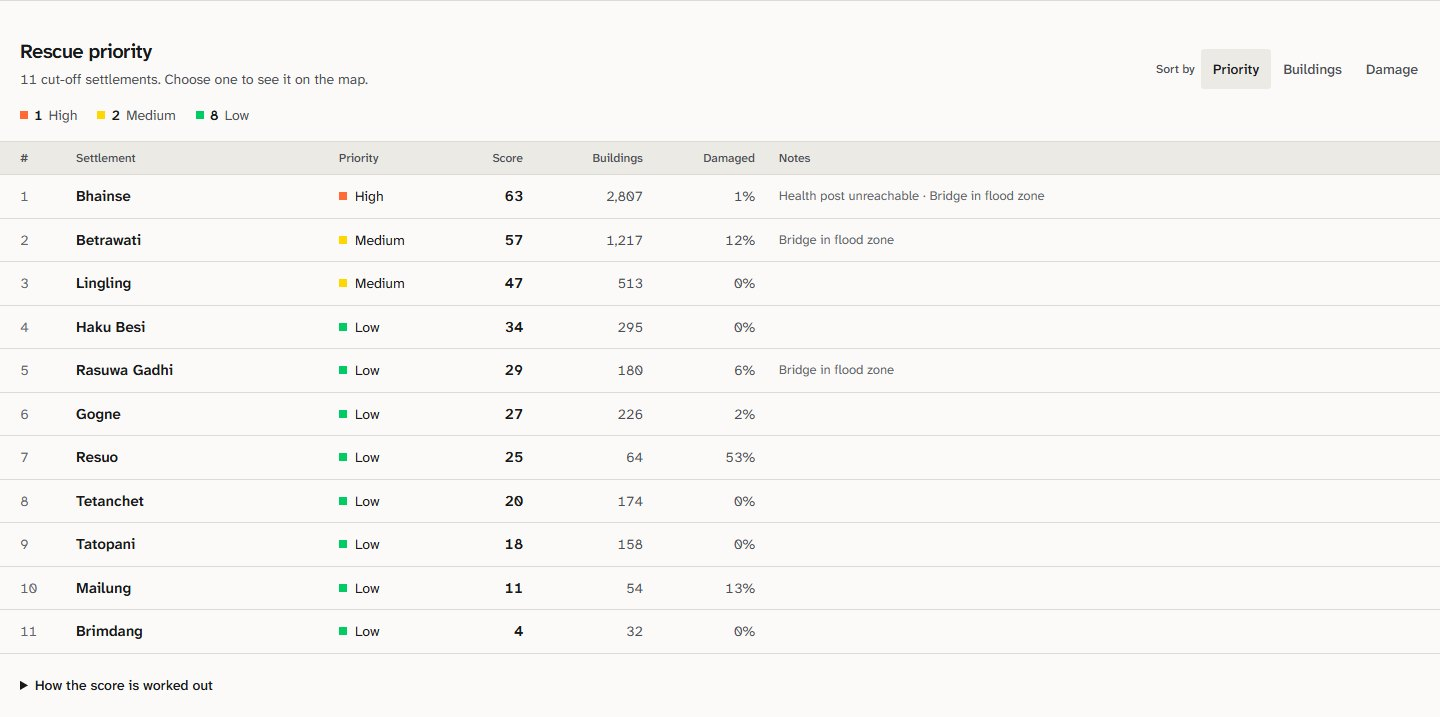
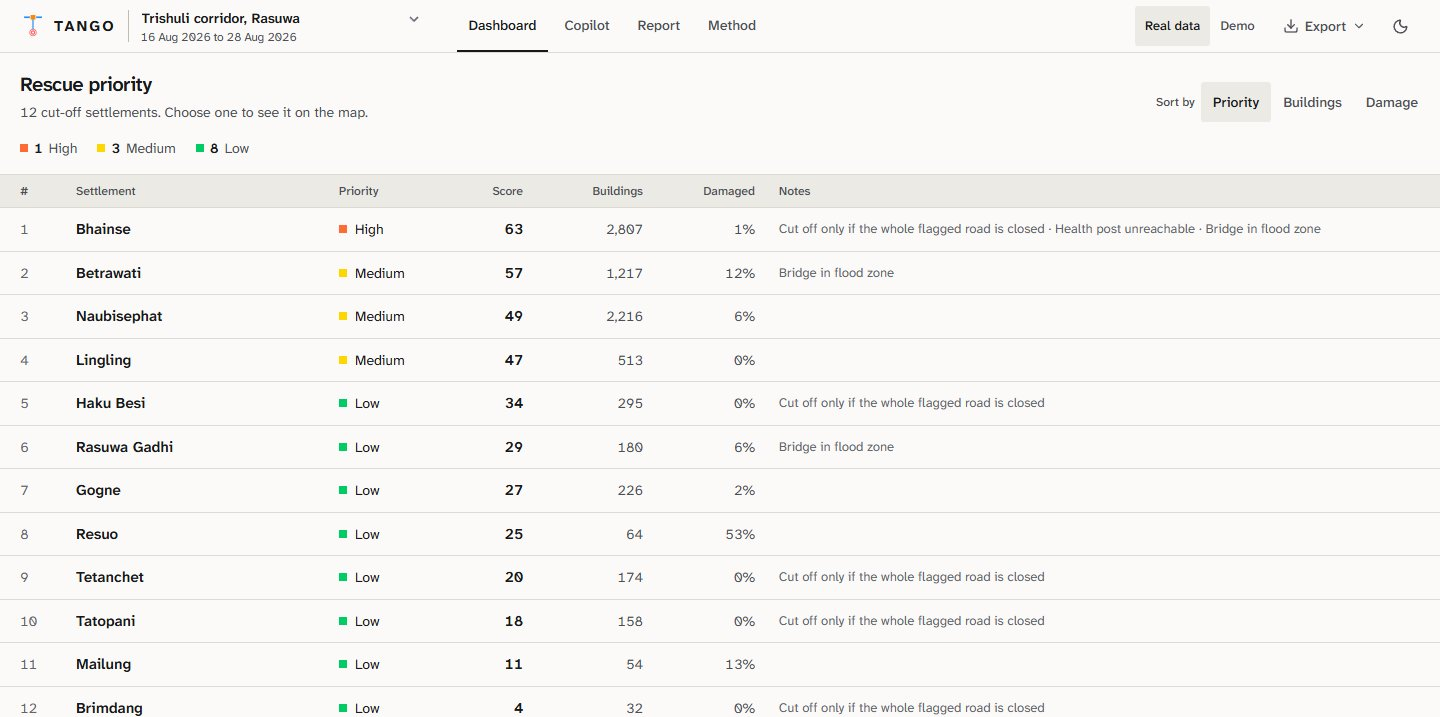
docs: demo video, Devpost and team in the README; current screenshots
The README screenshots predated the re-made runs (11 of 149 cut off,
5,720 buildings); they now show the live site's figures (12 of 149,
7,936). Adds the feature inventory written for the demo videos.

diff --git a/docs/feature-inventory.md b/docs/feature-inventory.md
@@ -1,0 +1,48 @@
+# TANGO feature inventory
+
+Read from `src/pages`, `src/components`, `src/hooks` and `src/services` (14 Oct 2026, build db87f95). The last column says where the feature appears in the full tour (`video/out/tango-full-tour.mp4`, 4:29) and in the 3-minute submission video (`video/out/tango-submission-3min.mp4`, 2:58). "Not shown" means the feature exists in the app but has no shot yet.
+
+## Pipeline (Python, `pipeline/`)
+
+| Feature | Where | In the videos |
+| --- | --- | --- |
+| End-to-end run from an area and a date (`run.py --bbox --event`), 8 numbered steps, preflight checks | `run.py`, `preflight.py` | Tour 0:21, 3-min 0:09 (real Teesta log) |
+| Same-track Sentinel-1 pair 12 days apart; frames of a pass joined; `--track` | `fetch_s1.py` | Both (the log's pair line; the track on the rail) |
+| Three-image baseline, valley-floor mask | `segment.py`, `terrain.py` | Both (narrated) |
+| Sentinel-2 confirmation and blind-spot fill | `fetch_s2.py` | Both (viewer, Optical) |
+| OpenStreetMap snapshot before the event, fetched in the background with retries | `fetch_osm.py` | Both (log, badge) |
+| Damage overlay, flooded length of roads | `damage.py` | Both |
+| Cut-off analysis (whole flagged roads, and flooded stretches only) | `cutoff.py`, `infrastructure.py` | Both |
+| U-Net model (Kuro Siwo), held-out evaluation, model check on the rule's map | `train_model.py`, `evaluate_model.py`, `predict.py` | Both |
+| Flood-path export, outlines, quicklooks | `floodpath.py`, `quicklook.py` | Viewer and flood path |
+| EMSR927 comparison (checking only), no-change test | `validate.py`, `null_test.py` | Both (lower-bound figures) |
+| Data rules as tests | `tests/test_compliance.py` | 3-min 0:17 (code card) |
+| Publish to the dashboard | `publish.py` | Not shown |
+
+## Dashboard (React, `src/`)
+
+| Feature | Component | In the videos |
+| --- | --- | --- |
+| Splash: Earth, satellite pass, what has loaded, Open the analysis, EN/नेपाली | `Splash/*` | Tour 0:42 (open clip); 3-min not shown |
+| Header: area selector (6 areas), Real data / Demo, Dashboard · Copilot · Report · Method, Export, theme | `Common/Header.jsx` | Tour 3:33 (area switch, Demo, Export, dark theme, Method) |
+| Key figures, breakdown bar, lower-bound note | `Dashboard/Situation.jsx`, `CoverageNotice.jsx` | Both |
+| "No flood found" and "not checked against a reference" notices | `NoFloodNotice.jsx`, `CoverageNotice.jsx` | Not-checked note: 3-min 0:17 (Teesta); no-flood state not shown |
+| Map: satellite / drawn basemap, zoom, full screen, legend, flood zones, markers, popups | `Map/FloodMap.jsx`, `DamageOverlay.jsx`, `MapMarkers.jsx` | Both |
+| Coordinates on click, copy | `Map/FloodMap.jsx` | Seen briefly (damage clip); copy not shown |
+| Basemap notice when tiles fail | `hooks/useTileHealth.js` | Not shown |
+| Layers panel | `Map/LayerControl.jsx` | Tour 2:16 |
+| Filters | `Tools/FilterControls.jsx` | Tour 2:16 |
+| Measure distance / area, undo, clear | `Tools/MeasurementTool.jsx` | Tour 2:16 (distance) |
+| Flood path (bonus) | `Tools/FloodPathTool.jsx`, `utils/floodPath.js` | Both |
+| Route planner: from / to, my location, choose on map, swap, avoid flooded vs fastest, margin, vehicle / on foot, directions, GPX, clear | `Map/RoutePanel.jsx`, `utils/routing.js` | Both (choose places, avoid vs fastest); my location, swap, on foot, directions, GPX not shown |
+| Live navigation HUD with voice guidance | `Map/NavigationHud.jsx`, `hooks/useVoiceGuidance.js`, `services/speech.js` | Not shown (needs a moving GPS position) |
+| Rescue priority table, sort by priority / buildings / damage, choose a row to fly to it | `Dashboard/SettlementPriorityRanking.jsx` | Both (choose Bhainse); sort options not shown |
+| Before/after viewer: flood area / whole area, mapped flood outlines, radar / optical, zoom, full screen, download | `Dashboard/SatelliteViewer.jsx` | Tour 1:06 (all but full screen and download) |
+| What was detected, model check, Sentinel-2 note, road-map completeness, infrastructure lists | `Dashboard/Evidence.jsx` | Both |
+| Copilot: four questions, full report, typed questions, EN / NE, copy, download, clear | `Copilot/*`, `services/copilotService.js` | Both (questions, Nepali); typed question, copy, download, clear not shown |
+| One-page situation report EN / NE, print or save as PDF | `pages/ReportPage.jsx` | Both (EN, NE); print dialog not shown |
+| Exports: settlements CSV, statistics CSV, map layers GeoJSON | `Tools/ExportPanel.jsx`, `services/exportService.js` | Tour 3:33 (menu) |
+| Method page | `pages/AboutPage.jsx` | Tour 3:33 |
+| Demo dataset | `config/dataSource.js`, `data/mockData.js` | Tour 3:33 |
+| Error boundary, error page, load errors with retry, toasts | `Common/ErrorBoundary.jsx`, `pages/ErrorPage.jsx`, `Common/Toast.jsx` | Not shown |
+| Keyboard access: skip link, focus management on page change, menus with arrows / Escape | `hooks/useRouteChange.js`, `Common/Header.jsx` | Not shown |

diff --git a/README.md b/README.md
@@ -7,7 +7,9 @@ An entry to Space Track, Track B (*Mapping Flood Damage from Space*) of the Mult
 | | |
 | --- | --- |
 | Live dashboard | <https://bhoopesh282008.github.io/Tango/> (six areas on real data: the case study, the flood model's map of the same scenes, a second reach and three rehearsals; the header's **Demo** switch shows the bundled demo dataset) |
-| Demo video | _added at submission_ |
+| Demo video (3 min) | <https://youtu.be/mF6I_xkWayw> |
+| Devpost | <https://devpost.com/software/tango-flood-response-system> |
+| Team | Melvin Raj T, Sasmitha R, Bhoopesh M, Thaniska P S |
 | Report (6 pages) | [docs/report.pdf](docs/report.pdf), source [docs/report.md](docs/report.md) |
 | Method and limits | the dashboard's **Method** page, and section 7 of the report |
 | Licence | MIT for the code; the data keeps its own terms (see [Attribution](#attribution)) |

diff --git a/docs/devpost.md b/docs/devpost.md
@@ -6,9 +6,9 @@ Tagline (200 characters): From Sentinel-1 radar to cut-off villages: maps flood 
 
 Track: Space Track, Track B, *Mapping Flood Damage from Space*
 
-Links: code <https://github.com/bhoopesh282008/Tango> · live dashboard <https://bhoopesh282008.github.io/Tango/> · video [YouTube link] · report `docs/report.pdf` in the repository
+Links: code <https://github.com/bhoopesh282008/Tango> · live dashboard <https://bhoopesh282008.github.io/Tango/> · video <https://youtu.be/mF6I_xkWayw> · report `docs/report.pdf` in the repository
 
-Team: [names, up to four, with the Devpost accounts that must be added]
+Team: Melvin Raj T, Sasmitha R, Bhoopesh M, Thaniska P S
 
 ---
 
